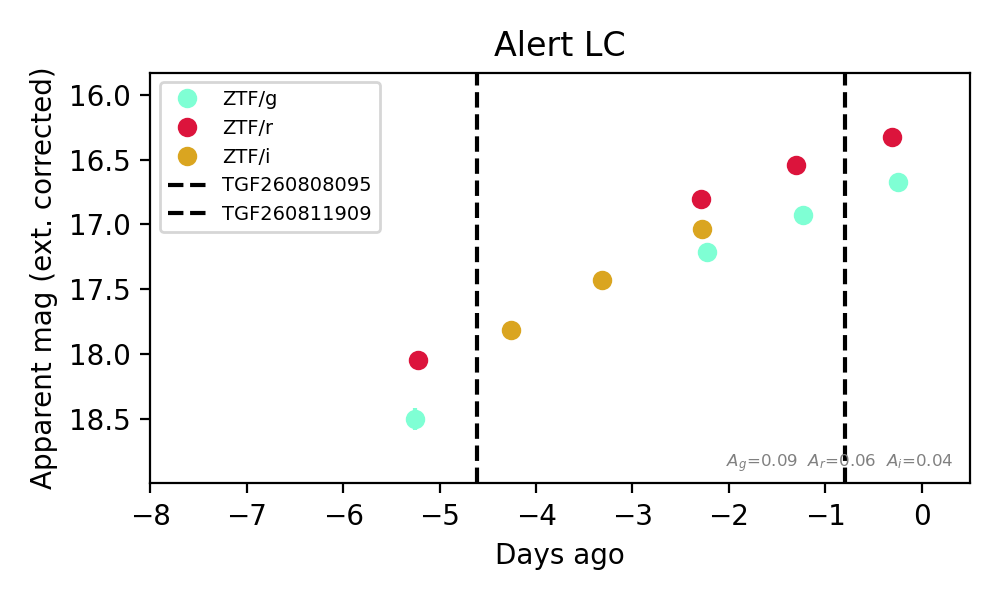
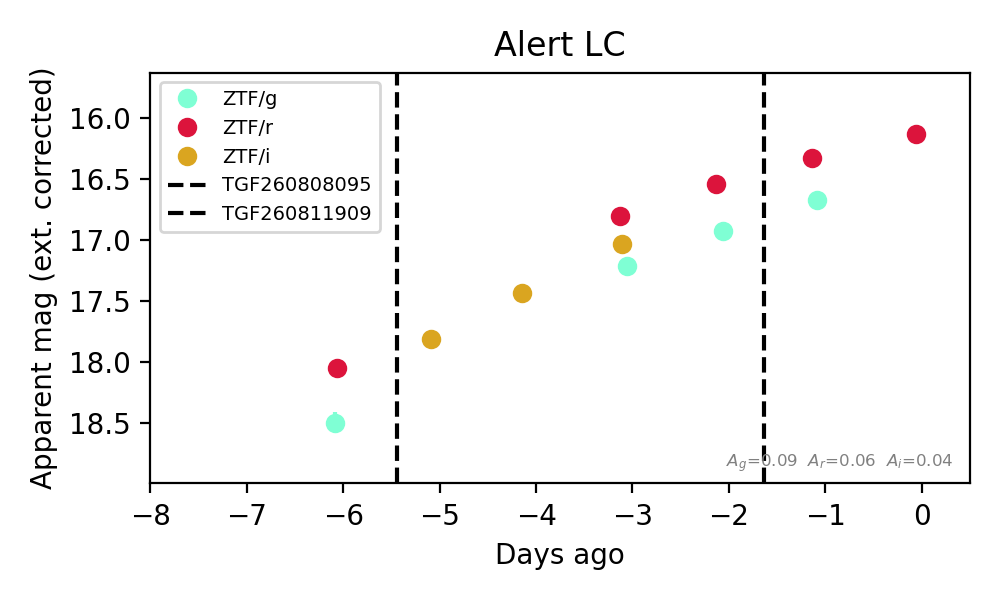
Update HTML from cron job on Thu Aug 13 09:01:22 AM EDT 2026

diff --git a/html/20260813_fastcand.html b/html/20260813_fastcand.html
@@ -1,1 +1,1 @@
-<!doctype html><html><head><title>SOURCE MARSHAL</title><style>                  * {                     box-sizing: border-box;                  }                /* Create two equal columns that floats next to each other */                .column {                         float: left;                         width: 50%;                         padding: 10px;                         #height: 220px; /* Should be removed. Only for demonstration */                }                /* Clear floats after the columns */                .row:after {                        content: "";                        display: table;                        clear: both;                }                /* Rounded corner definition */                #rcorners2 {                    border-radius: 15px;                    border: 2px solid #73AD21;                    padding: 15px;                     width: 80%;                }                table, th, td {                    border: 1px solid black;                    border-collapse: collapse;                }                th, td {                    padding: 5px;                }                th {                    text-align: right;                }                .boxed {                    width: 300px;                    border: 3px outset green;                    text-align: center;                    font-size: 20px;                    margin: 10px;                }                 </style></head><body><font size="5" color="green">Candidate List 20260813</font></br><font size="3" color="green">Last night &mdash; ZTF: 459 passed basic cuts (123 young) &middot; LSST: 0 passed basic cuts (0 young)</font></br></br><a href=20260812_fastcand.html target="_blank"><font size="3" color="green">Previous Day</font></a>&nbsp;&nbsp;&nbsp;&nbsp;<a href=20260814_fastcand.html target="_blank"><font size="3" color="green">Next Day</font></a>&nbsp;&nbsp;&nbsp;&nbsp;<br><br><font size="4" color="green"><a href="#sec1">Section 1: New Sources (age<1d)</a></font>&nbsp;&nbsp;&nbsp;&nbsp;<font size="4" color="green"><a href="#sec2">Section 2: Old (1-5d) sources observed last night</a></font></br><font size="1" color="white">placeholder</font></br><hr style="width:50%;text-align:left;margin-left:0"><br><div id="sec1"></div><div class="boxed">Section 1: New Afterglow/FBOT Cands Last Night (0)</div><br><br><br><div id="sec2"></div><div class="boxed">Section 2: Older Sources Observed Last Night (2)</div><div id="ZTF26abnlkih"></div>0. <a href="#ZTF26abntiza"><b><font size="3">[ZTF] ZTF26abntiza (Afterglow?)</font></b></a>&nbsp;&nbsp;&nbsp;&nbsp;<a href=#top>[Back to Top]</a>&nbsp;&nbsp;&nbsp;&nbsp;<a href=./html/ZTF26abntiza_announcement.txt>[Share]</a>&nbsp;&nbsp;&nbsp;&nbsp;<a href=./html/ZTF26abntiza_swifttoo.txt>[Trigger Swift]</a></br>&nbsp;&nbsp;&nbsp;&nbsp;[<a href="https://fritz.science/brokers?objectId=ZTF26abntiza&survey=ZTF&ra=34.0125569&dec=15.51355635&radius=3" target="_blank">Fritz Alert</a>]&nbsp;&nbsp;&nbsp;&nbsp;[<a href="https://fritz.science/source/ZTF26abntiza" target="_blank">Fritz Source</a>]&nbsp;&nbsp;&nbsp;&nbsp;[<a href="https://lasair-ztf.lsst.ac.uk/objects/ZTF26abntiza/" target="_blank">Lasair</a>]</br>RA, Dec: 34.01256, 15.51356&nbsp;&nbsp;&nbsp;&nbsp; 2h16m3.01s, 15d30m48.80s</br>Galactic (l, b): 151.1568, -42.67353&nbsp;&nbsp;&nbsp;&nbsp;<b>WARNING:</b> 1.78 deg from ecliptic plane&nbsp;&nbsp;&nbsp;&nbsp;ext(g-r) = 0.089</br></br><img src="./ZTF26abntiza_triplet.png" height="200"><a href = http://ps1images.stsci.edu/cgi-bin/ps1cutouts?pos=34.012557+15.513556&filter=color&filter=g&filter=r&filter=i&filter=z&filter=y&filetypes=stack&auxiliary=data&size=240&output_size=240&verbose=0&autoscale=99.500000><img src="./ZTF26abntiza_ps1.png" height="200"></a><a href = http://legacysurvey.org/viewer?ra=34.012557&dec=+15.513556&zoom=16&layer=ls-dr10><img src="ZTF26abntiza_ls.png" height="200"></a></br><br><br>TESS: Sectors [42 43 70 71]<br><br><br><br><br>PS1: 0 sources in 3 arcsec</br><br>LegacySurvey: 0 sources in 3 arcsec</br><br><img src="ZTF26abntiza_alert_lc.png" height="300"><br>Extinction-corrected gr color:<br>From alerts: -1.66 +/- 99 mag<br>Extinction-corrected gi color:<br>From alerts: 0.95 +/- 0.06 mag<br>Extinction-corrected ri color:<br>From alerts: 2.61 +/- 99 mag<br><b> Consistent with synchrotron, g-r>0!</b><br>Rise Rate:<br>g: 35.8 mag/day <br>i: 2.0 mag/day <br><br>Fade Rate:<br><br><br><div id="ZTF26abmtmzm"></div>1. <a href="#ZTF26abntxps"><b><font size="3">[ZTF] ZTF26abntxps (FBOT?)</font></b></a>&nbsp;&nbsp;&nbsp;&nbsp;<a href=#top>[Back to Top]</a>&nbsp;&nbsp;&nbsp;&nbsp;<a href=./html/ZTF26abntxps_announcement.txt>[Share]</a>&nbsp;&nbsp;&nbsp;&nbsp;<a href=./html/ZTF26abntxps_swifttoo.txt>[Trigger Swift]</a></br>&nbsp;&nbsp;&nbsp;&nbsp;[<a href="https://fritz.science/brokers?objectId=ZTF26abntxps&survey=ZTF&ra=5.1261047&dec=14.0230826&radius=3" target="_blank">Fritz Alert</a>]&nbsp;&nbsp;&nbsp;&nbsp;[<a href="https://fritz.science/source/ZTF26abntxps" target="_blank">Fritz Source</a>]&nbsp;&nbsp;&nbsp;&nbsp;[<a href="https://lasair-ztf.lsst.ac.uk/objects/ZTF26abntxps/" target="_blank">Lasair</a>]</br>RA, Dec: 5.1261, 14.02308&nbsp;&nbsp;&nbsp;&nbsp; 0h20m30.27s, 14d 1m23.10s</br>Galactic (l, b): 111.64324, -48.16948&nbsp;&nbsp;&nbsp;&nbsp;ext(g-r) = 0.076</br></br><img src="./ZTF26abntxps_triplet.png" height="200"><a href = http://ps1images.stsci.edu/cgi-bin/ps1cutouts?pos=5.126105+14.023083&filter=color&filter=g&filter=r&filter=i&filter=z&filter=y&filetypes=stack&auxiliary=data&size=240&output_size=240&verbose=0&autoscale=99.500000><img src="./ZTF26abntxps_ps1.png" height="200"></a><a href = http://legacysurvey.org/viewer?ra=5.126105&dec=+14.023083&zoom=16&layer=ls-dr10><img src="ZTF26abntxps_ls.png" height="200"></a></br><br><br>TESS: Sectors [42 43 57 70 84]<br><br><br><br><br>PS1: 0 sources in 3 arcsec</br><br><b>LegacySurvey: 1 sources in 3 arcsec</b>&nbsp;&nbsp;&nbsp;&nbsp;Closest: d = 1.79 arcsec, 230.2 deg (east of north)</br>&nbsp;&nbsp;&nbsp;&nbsp;photoz=1.0 (68&#37; bounds 0.9, 1.1),                         type=EXP&nbsp;&nbsp;&nbsp;&nbsp;<b>peak abs mag (ext. corrected) = -25.2 (68&#37; bounds -24.92, -25.47)</b><br><img src="ZTF26abntxps_alert_lc.png" height="300"><br>Extinction-corrected gi color:<br>From alerts: 2.33 +/- 0.31 mag<br><b> Consistent with synchrotron, g-r>0!</b><br>Rise Rate:<br>i: 0.74 mag/day <br><br>Fade Rate:<br><br><br><br>
+<!doctype html><html><head><title>SOURCE MARSHAL</title><style>                  * {                     box-sizing: border-box;                  }                /* Create two equal columns that floats next to each other */                .column {                         float: left;                         width: 50%;                         padding: 10px;                         #height: 220px; /* Should be removed. Only for demonstration */                }                /* Clear floats after the columns */                .row:after {                        content: "";                        display: table;                        clear: both;                }                /* Rounded corner definition */                #rcorners2 {                    border-radius: 15px;                    border: 2px solid #73AD21;                    padding: 15px;                     width: 80%;                }                table, th, td {                    border: 1px solid black;                    border-collapse: collapse;                }                th, td {                    padding: 5px;                }                th {                    text-align: right;                }                .boxed {                    width: 300px;                    border: 3px outset green;                    text-align: center;                    font-size: 20px;                    margin: 10px;                }                 </style></head><body><font size="5" color="green">Candidate List 20260813</font></br><font size="3" color="green">Last night &mdash; ZTF: 382 passed basic cuts (13 young) &middot; LSST: 0 passed basic cuts (0 young)</font></br></br><a href=20260812_fastcand.html target="_blank"><font size="3" color="green">Previous Day</font></a>&nbsp;&nbsp;&nbsp;&nbsp;<a href=20260814_fastcand.html target="_blank"><font size="3" color="green">Next Day</font></a>&nbsp;&nbsp;&nbsp;&nbsp;<br><br><font size="4" color="green"><a href="#sec1">Section 1: New Sources (age<1d)</a></font>&nbsp;&nbsp;&nbsp;&nbsp;<font size="4" color="green"><a href="#sec2">Section 2: Old (1-5d) sources observed last night</a></font></br><font size="1" color="white">placeholder</font></br><hr style="width:50%;text-align:left;margin-left:0"><br><div id="sec2"></div><div class="boxed">Section 2: Older Sources Observed Last Night (3)</div><div id="ZTF26abmjire"></div>0. <a href="#ZTF26abmjmqk"><b><font size="3">[ZTF] ZTF26abmjmqk (FBOT?)</font></b></a>&nbsp;&nbsp;&nbsp;&nbsp;<a href=#top>[Back to Top]</a>&nbsp;&nbsp;&nbsp;&nbsp;<a href=./html/ZTF26abmjmqk_announcement.txt>[Share]</a>&nbsp;&nbsp;&nbsp;&nbsp;<a href=./html/ZTF26abmjmqk_swifttoo.txt>[Trigger Swift]</a></br>&nbsp;&nbsp;&nbsp;&nbsp;[<a href="https://fritz.science/brokers?objectId=ZTF26abmjmqk&survey=ZTF&ra=31.4485772&dec=-5.2886611&radius=3" target="_blank">Fritz Alert</a>]&nbsp;&nbsp;&nbsp;&nbsp;[<a href="https://fritz.science/source/ZTF26abmjmqk" target="_blank">Fritz Source</a>]&nbsp;&nbsp;&nbsp;&nbsp;[<a href="https://lasair-ztf.lsst.ac.uk/objects/ZTF26abmjmqk/" target="_blank">Lasair</a>]</br>RA, Dec: 31.44858, -5.28866&nbsp;&nbsp;&nbsp;&nbsp; 2h 5m47.66s, -5d-17m-19.18s</br>Galactic (l, b): 165.27453, -61.88398&nbsp;&nbsp;&nbsp;&nbsp;ext(g-r) = 0.028</br></br><img src="./ZTF26abmjmqk_triplet.png" height="200"><a href = http://ps1images.stsci.edu/cgi-bin/ps1cutouts?pos=31.448577-5.288661&filter=color&filter=g&filter=r&filter=i&filter=z&filter=y&filetypes=stack&auxiliary=data&size=240&output_size=240&verbose=0&autoscale=99.500000><img src="./ZTF26abmjmqk_ps1.png" height="200"></a><a href = http://legacysurvey.org/viewer?ra=31.448577&dec=-5.288661&zoom=16&layer=ls-dr10><img src="ZTF26abmjmqk_ls.png" height="200"></a></br><br><br>TESS: Sectors [  4  97 108]<br>SDSS (<15 kpc):Found SDSS phot-z: z=0.05; <b>peak abs mag = -20.78</b><br><br><br><br>PS1: 0 sources in 3 arcsec</br><br><b>LegacySurvey: 1 sources in 3 arcsec</b>&nbsp;&nbsp;&nbsp;&nbsp;Closest: d = 6.22 arcsec, 323.5 deg (east of north)</br>&nbsp;&nbsp;&nbsp;&nbsp;photoz=0.84 (68&#37; bounds 0.78, 0.89),                         type=REX&nbsp;&nbsp;&nbsp;&nbsp;<b>peak abs mag (ext. corrected) = -27.56 (68&#37; bounds -27.37, -27.72)</b><br><img src="ZTF26abmjmqk_alert_lc.png" height="300"><br>Extinction-corrected gr color:<br>From alerts: 0.34 +/- 0.05 mag<br>Extinction-corrected gi color:<br>From alerts: 0.17 +/- 0.05 mag<br>Extinction-corrected ri color:<br>From alerts: -0.23 +/- 0.05 mag<br><b> Consistent with synchrotron, g-r>0!</b><br>Rise Rate:<br>g: 0.34 mag/day <br>r: 0.4 mag/day <br>i: 0.39 mag/day <br><br>Fade Rate:<br><br><br><div id="ZTF26abmjmqk"></div>1. <a href="#ZTF26abneopl"><b><font size="3">[ZTF] ZTF26abneopl (Afterglow?)</font></b></a>&nbsp;&nbsp;&nbsp;&nbsp;<a href=#top>[Back to Top]</a>&nbsp;&nbsp;&nbsp;&nbsp;<a href=./html/ZTF26abneopl_announcement.txt>[Share]</a>&nbsp;&nbsp;&nbsp;&nbsp;<a href=./html/ZTF26abneopl_swifttoo.txt>[Trigger Swift]</a></br>&nbsp;&nbsp;&nbsp;&nbsp;[<a href="https://fritz.science/brokers?objectId=ZTF26abneopl&survey=ZTF&ra=0.1477464&dec=-14.3050144&radius=3" target="_blank">Fritz Alert</a>]&nbsp;&nbsp;&nbsp;&nbsp;[<a href="https://fritz.science/source/ZTF26abneopl" target="_blank">Fritz Source</a>]&nbsp;&nbsp;&nbsp;&nbsp;[<a href="https://lasair-ztf.lsst.ac.uk/objects/ZTF26abneopl/" target="_blank">Lasair</a>]</br>RA, Dec: 0.14775, -14.30501&nbsp;&nbsp;&nbsp;&nbsp; 0h 0m35.46s, -14d-18m-18.05s</br>Galactic (l, b): 77.64715, -72.53906&nbsp;&nbsp;&nbsp;&nbsp;ext(g-r) = 0.033</br></br><img src="./ZTF26abneopl_triplet.png" height="200"><a href = http://ps1images.stsci.edu/cgi-bin/ps1cutouts?pos=0.147746-14.305014&filter=color&filter=g&filter=r&filter=i&filter=z&filter=y&filetypes=stack&auxiliary=data&size=240&output_size=240&verbose=0&autoscale=99.500000><img src="./ZTF26abneopl_ps1.png" height="200"></a><a href = http://legacysurvey.org/viewer?ra=0.147746&dec=-14.305014&zoom=16&layer=ls-dr10><img src="ZTF26abneopl_ls.png" height="200"></a></br><br><br>TESS: Sectors [  2  29  69 107]<br><br><br><br><br>PS1: 0 sources in 3 arcsec</br><br><b>LegacySurvey: 1 sources in 3 arcsec</b>&nbsp;&nbsp;&nbsp;&nbsp;Closest: d = 1.35 arcsec, 356.6 deg (east of north)</br>&nbsp;&nbsp;&nbsp;&nbsp;photoz=0.06 (68&#37; bounds 0.05, 0.07),                         type=EXP&nbsp;&nbsp;&nbsp;&nbsp;<b>peak abs mag (ext. corrected) = -18.64 (68&#37; bounds -18.27, -19.13)</b><br><img src="ZTF26abneopl_alert_lc.png" height="300"><br>Extinction-corrected gr color:<br>From alerts: -0.52 +/- 0.28 mag<br>Extinction-corrected gi color:<br>From alerts: 1.19 +/- 99 mag<br>Extinction-corrected ri color:<br>From alerts: -0.34 +/- 0.23 mag<br><br>Rise Rate:<br>g: 0.2 mag/day <br>r: 0.48 mag/day <br>i: 0.59 mag/day <br><br>Fade Rate:<br>g: 0.3 mag/day <br><br><br><div id="ZTF26abmrebm"></div>2. <a href="#ZTF26abnuqyj"><b><font size="3">[ZTF] ZTF26abnuqyj (Afterglow?)</font></b></a>&nbsp;&nbsp;&nbsp;&nbsp;<a href=#top>[Back to Top]</a>&nbsp;&nbsp;&nbsp;&nbsp;<a href=./html/ZTF26abnuqyj_announcement.txt>[Share]</a>&nbsp;&nbsp;&nbsp;&nbsp;<a href=./html/ZTF26abnuqyj_swifttoo.txt>[Trigger Swift]</a></br>&nbsp;&nbsp;&nbsp;&nbsp;[<a href="https://fritz.science/brokers?objectId=ZTF26abnuqyj&survey=ZTF&ra=114.8408902&dec=34.4120322&radius=3" target="_blank">Fritz Alert</a>]&nbsp;&nbsp;&nbsp;&nbsp;[<a href="https://fritz.science/source/ZTF26abnuqyj" target="_blank">Fritz Source</a>]&nbsp;&nbsp;&nbsp;&nbsp;[<a href="https://lasair-ztf.lsst.ac.uk/objects/ZTF26abnuqyj/" target="_blank">Lasair</a>]</br>RA, Dec: 114.84089, 34.41203&nbsp;&nbsp;&nbsp;&nbsp; 7h39m21.81s, 34d24m43.32s</br>Galactic (l, b): 185.16639, 24.21225&nbsp;&nbsp;&nbsp;&nbsp;ext(g-r) = 0.047</br></br><img src="./ZTF26abnuqyj_triplet.png" height="200"><a href = http://ps1images.stsci.edu/cgi-bin/ps1cutouts?pos=114.840890+34.412032&filter=color&filter=g&filter=r&filter=i&filter=z&filter=y&filetypes=stack&auxiliary=data&size=240&output_size=240&verbose=0&autoscale=99.500000><img src="./ZTF26abnuqyj_ps1.png" height="200"></a><a href = http://legacysurvey.org/viewer?ra=114.840890&dec=+34.412032&zoom=16&layer=ls-dr10><img src="ZTF26abnuqyj_ls.png" height="200"></a></br><br><br>TESS: Sectors [20 47 60]<br><br><br><br><br>PS1: 0 sources in 3 arcsec</br><br><b>LegacySurvey: 1 sources in 3 arcsec</b>&nbsp;&nbsp;&nbsp;&nbsp;Closest: d = 0.11 arcsec, 210.1 deg (east of north)</br>&nbsp;&nbsp;&nbsp;&nbsp;photoz=0.02 (68&#37; bounds 0.01, 0.57),                         type=PSF&nbsp;&nbsp;&nbsp;&nbsp;<b>peak abs mag (ext. corrected) = -17.79 (68&#37; bounds -16.37, -25.94)</b><br><img src="ZTF26abnuqyj_alert_lc.png" height="300"><br><br>Rise Rate:<br><br>Fade Rate:<br>r: 1.68 mag/day <br><br><br><br>
